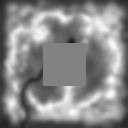
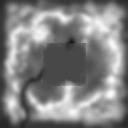
Fixed terrain. Added nest and tree branch

Changed region(s): [[0.3125, 0.3125, 0.6875, 0.6875]]

diff --git a/WebCGF2.projB/projB/MyCylinderInverted.js b/WebCGF2.projB/projB/MyCylinderInverted.js
@@ -1,0 +1,85 @@
+/**
+* MyCylinderInverted
+* @constructor
+*/
+class MyCylinderInverted extends CGFobject {
+    constructor(scene, slices, stacks, hideTop, wrapTexture) {
+        super(scene);
+
+        this.hideTop = hideTop;
+        
+        this.slices = slices;
+        this.stacks = stacks;
+        this.wrap = wrapTexture;
+
+        this.initBuffers();
+    }
+    initBuffers() {
+        this.vertices = [];
+        this.indices = [];
+        this.normals = [];
+        this.texCoords = [];
+
+        var ang = 0;
+        var alphaAng = 2*Math.PI/this.slices;
+
+        for(var i = 0; i < this.slices; i++){
+
+            this.vertices.push(Math.cos(ang), 0, -Math.sin(ang));
+            this.vertices.push(Math.cos(ang), 1, -Math.sin(ang));         
+            this.vertices.push(Math.cos(ang+alphaAng), 0, -Math.sin(ang+alphaAng));
+            this.vertices.push(Math.cos(ang+alphaAng), 1, -Math.sin(ang+alphaAng));
+
+            this.indices.push((4*i+1)%(4*this.slices), (4*i+3) % (4*this.slices), 4*i);
+            this.indices.push((4*i+3)%(4*this.slices), (4*i+2) % (4*this.slices), 4*i);
+            if(!this.hideTop){
+                this.indices.push(4*this.slices, (4*i+3) % (4*this.slices), 4*i+1);
+                this.indices.push(4*i, (4*i+2) % (4*this.slices), 4*this.slices+1);
+            }else{
+                this.indices.push(4*i, (4*i+2) % (4*this.slices), 4*this.slices);
+            }
+            this.normals.push(-Math.cos(ang), 0, Math.sin(ang));
+            this.normals.push(-Math.cos(ang), 0, Math.sin(ang));
+            this.normals.push(-Math.cos(ang+alphaAng), 0, Math.sin(ang+alphaAng));
+            this.normals.push(-Math.cos(ang+alphaAng), 0, Math.sin(ang+alphaAng));
+            
+            if(this.wrap){
+                this.texCoords.push(i/this.slices, 1);
+                this.texCoords.push(i/this.slices, 0);
+                this.texCoords.push((i+1)/this.slices, 1);
+                this.texCoords.push((i+1)/this.slices, 0);
+            }   
+            else{
+                this.texCoords.push(0, 1);
+                this.texCoords.push(0, 0);
+                this.texCoords.push(1, 1);
+                this.texCoords.push(1, 0);
+            }
+            
+            ang+=alphaAng;   
+        }
+        
+        if(!this.hideTop){
+            this.vertices.push(0, 1, 0);
+            this.normals.push(0, -1, 0);
+            this.texCoords.push(0.5, 0.5);
+        }
+
+        this.vertices.push(0, 0, 0);
+        this.normals.push(0, 1, 0);
+        this.texCoords.push(0.5, 0.5);
+
+        this.primitiveType = this.scene.gl.TRIANGLES;
+        this.initGLBuffers();
+    }
+    
+    updateBuffers(complexity){
+        this.slices = 3 + Math.round(9 * complexity); //complexity varies 0-1, so slices varies 3-12
+
+        // reinitialize buffers
+        this.initBuffers();
+        this.initNormalVizBuffers();
+    }
+}
+
+

diff --git a/WebCGF2.projB/projB/MyScene.js b/WebCGF2.projB/projB/MyScene.js
@@ -25,11 +25,20 @@ class MyScene extends CGFscene {
         //this.plane = new Plane(this, 32);
         this.terrain = new MyTerrain(this);
         this.bird = new MyBird(this);
+        this.nest = new MyNest(this);
+
+        //Initialize tree branches
+        this.treeBranch = new MyTreeBranch(this);
+		const numBranches = Math.random() * (6 - 4) + 4;
+        this.treeBranches = [];
+        for(var i = 0; i < numBranches; i++){
+        	this.treeBranches.push(this.treeBranch);
+        }
 
 		this.initMaterials();
 
         //Objects connected to MyInterface
-        this.scaleFactor = 20.0;
+        this.scaleFactor = 10.0;
 
 		this.shadersDiv = document.getElementById("shaders");
 		this.vShaderDiv = document.getElementById("vshader");
@@ -46,7 +55,7 @@ class MyScene extends CGFscene {
     }
 
     onScaleFactorChanged(v) {
-    	this.terrain.onScaleFactorChanged(v);
+    	//this.terrain.onScaleFactorChanged(v);
 	}
 
     initMaterials(){
@@ -101,6 +110,28 @@ class MyScene extends CGFscene {
         this.translate(0, 3, 0);
         this.bird.display();
         this.popMatrix();
+
+        //DISPLAY BRANCHES
+        this.pushMatrix();
+        this.translate(0, 4.5, 0);
+        this.pushMatrix();
+        const translatePosition = [2.5, 2.5];
+        for(var i = 0; i < this.treeBranches.length; i++){
+        	this.pushMatrix();
+        	this.translate(translatePosition[0]*i-5, 0, translatePosition[1]*i-5);
+        	this.pushMatrix();
+			this.rotate(Math.PI/2, 0, 0, 1);
+        	this.treeBranches[i].display();
+        	this.popMatrix();
+        	this.popMatrix();
+        }
+        this.popMatrix();
+        this.popMatrix();
+		
+		this.pushMatrix();
+		this.translate(5, 4.5, -5);
+		this.nest.display();
+		this.popMatrix();
         // ---- END Primitive drawing section
     }
 }

diff --git a/WebCGF2.projB/projB/MyNest.js b/WebCGF2.projB/projB/MyNest.js
@@ -1,0 +1,44 @@
+/**
+* MyNest
+* @constructor
+*/
+class MyNest extends CGFobject {
+    constructor(scene) {
+        super(scene);
+        
+        this.cylinder = new MyCylinder(scene, 10, 0, true);
+        this.cylinder_inverted = new MyCylinderInverted(scene, 10, 0, true); 
+
+		this.initMaterials();
+        this.initBuffers();
+    }
+
+    initBuffers() {
+        this.vertices = [];
+
+		//Counter-clockwise reference of vertices
+		this.indices = [];
+		this.primitiveType = this.scene.gl.TRIANGLES;
+		this.initGLBuffers();
+    }
+
+    initMaterials() {
+        this.trunk_material = new CGFappearance(this.scene);
+		this.trunk_material.setAmbient(0.5, 0.5, 0.5, 1);
+		this.trunk_material.setDiffuse(0.7, 0.7, 0.7, 1);
+		this.trunk_material.setSpecular(0.2, 0.2, 0.2, 1);
+		this.trunk_material.setShininess(100);
+
+		this.trunk_texture = new CGFtexture(this.scene, "images/nest.jpg");
+		this.trunk_material.setTexture(this.trunk_texture); 
+	}
+
+    display() {
+        this.scene.pushMatrix();
+        this.scene.scale(1, 0.25, 1);
+        this.trunk_material.apply();
+        this.cylinder.display();
+        this.cylinder_inverted.display();
+        this.scene.popMatrix();
+    }
+}

diff --git a/WebCGF2.projB/projB/MyTreeBranch.js b/WebCGF2.projB/projB/MyTreeBranch.js
@@ -1,0 +1,42 @@
+/**
+* MyTreeBranch
+* @constructor
+*/
+class MyTreeBranch extends CGFobject {
+    constructor(scene) {
+        super(scene);
+        
+        this.cylinder = new MyCylinder(scene, 5, 0);
+
+		this.initMaterials();
+        this.initBuffers();
+    }
+
+    initBuffers() {
+        this.vertices = [];
+
+		//Counter-clockwise reference of vertices
+		this.indices = [];
+		this.primitiveType = this.scene.gl.TRIANGLES;
+		this.initGLBuffers();
+    }
+
+    initMaterials() {
+        this.trunk_material = new CGFappearance(this.scene);
+		this.trunk_material.setAmbient(0.5, 0.5, 0.5, 1);
+		this.trunk_material.setDiffuse(0.7, 0.7, 0.7, 1);
+		this.trunk_material.setSpecular(0.2, 0.2, 0.2, 1);
+		this.trunk_material.setShininess(100);
+
+		this.trunk_texture = new CGFtexture(this.scene, "images/trunk.jpg");
+		this.trunk_material.setTexture(this.trunk_texture); 
+	}
+
+    display() {
+        this.scene.pushMatrix();
+        this.scene.scale(0.25, 2, 0.25);
+        this.trunk_material.apply();
+        this.cylinder.display();
+        this.scene.popMatrix();
+    }
+}

diff --git a/WebCGF2.projB/projB/MyTerrain.js b/WebCGF2.projB/projB/MyTerrain.js
@@ -15,7 +15,7 @@ class MyTerrain extends CGFobject {
 		this.terrain_shader.setUniformsValues({ uSampler: 1 });
 		this.terrain_shader.setUniformsValues({ tex: 1 });
 		this.terrain_shader.setUniformsValues({ colorTex: 2});
-		this.terrain_shader.setUniformsValues({ scale: this.scene.scaleFactor || 20.0 });
+		this.terrain_shader.setUniformsValues({ scale: this.scene.scaleFactor || 15.0 });
 		
 		this.initMaterials();
     }

diff --git a/WebCGF2.projB/projB/main.js b/WebCGF2.projB/projB/main.js
@@ -18,6 +18,9 @@ serialInclude(['../lib/CGF.js',
                 'MyUnitCubeQuad.js',
                 'MyBird.js',
                 'MyTerrain.js',
+                'MyTreeBranch.js',
+                'MyNest.js',
+                'MyCylinderInverted.js',
 
 main=function()
 {
